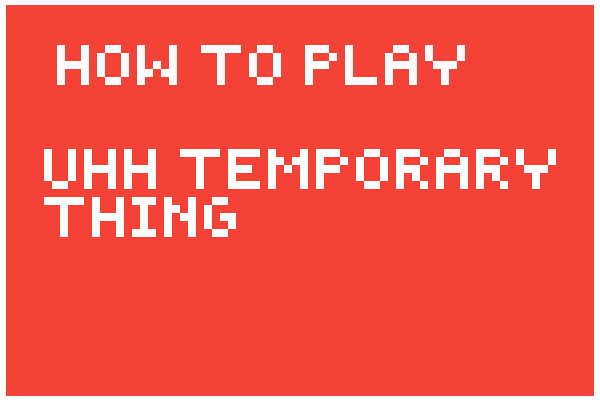
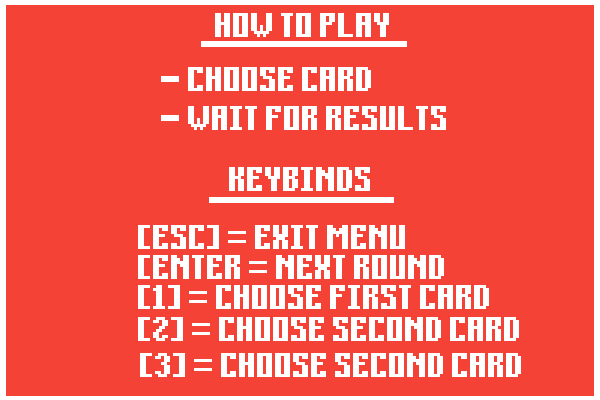
added more images to interactive scene

Changed region(s): [[0.06, 0.36, 0.93, 0.96], [0.09, 0.03, 0.78, 0.33]]

diff --git a/interactivescene/sketch.js b/interactivescene/sketch.js
@@ -12,6 +12,8 @@ let cardR, cardP, cardS, xCardR, yCardR, xCardP, yCardP, xCardS, yCardS, cardWid
 let playButtonWidth, howToPlayButtonWidth, playButtonHeight, howToPlayButtonHeight, xHowToPlayButton, yHowToPlayButton, xPlayButton, yPlayButton;
 let hoverHowToPlay, hoverPlay;
 let menuButton, rockCallout, paperCallout, scissorsCallout, youWin, youLose, playAgain, howToPlayMenu, exitMenu, xExitMenu, yExitMenu, exitMenuWidth, exitMenuHeight, startRound;
+let hoverExit, hoverKeybind, keybind, keybindMenu, loseCount, pressEnter, roundOne, roundTwo, roundThree, winCount, winLoseOne, winLoseTwo, winLoseThree, winLoseZero;
+
 
 let state = "start";
 
@@ -51,7 +53,22 @@ function preload() {
   playAgain = loadImage("assets/playAgainButton.png");
   youLose = loadImage("assets/youLose.png");
   youWin = loadImage("assets/youWin.png");
-  startRound = loadImage("assets/startRoundButton");
+  startRound = loadImage("assets/startRoundButton.png");
+
+  hoverExit = loadImage("assets/hoverExitButton.png");
+  hoverKeybind = loadImage("assets/hoverKeybindsButton.png");
+  keybind = loadImage("assets/keybindButton.png");
+  keybindMenu = loadImage("assets/keybindMenu.png");
+  loseCount = loadImage("assets/loseCount.png");
+  pressEnter = loadImage("assets/pressEnter.png");
+  roundOne = loadImage("assets/round1.png");
+  roundTwo = loadImage("assets/round2.png");
+  roundThree = loadImage("assets/round3.png");
+  winCount = loadImage("assets/winCount.png");
+  winLoseOne = loadImage("assets/winLoseOne.png");
+  winLoseTwo = loadImage("assets/winLoseTwo.png");
+  winLoseThree = loadImage("assets/winLoseThree.png");
+  winLoseZero = loadImage("assets/winLoseZero.png");
 }
 
 /////////////////// Setup //////////////////////////
@@ -112,9 +129,6 @@ function gameState() {
     pressPlay();
     pressHowToPlay();
   }
-  else if (state === "round1") {
-    display
-  }
   else if (state === "howToPlayMenu") {
     displayStartTitle();
     displayhowToMenu();  
@@ -132,6 +146,10 @@ function gameState() {
     
     displayTitle();
     hoverCards();
+
+    pressRockCard();
+    pressPaperCard();
+    pressScissorsCard();
   }
   else if (state === "choseRock") {
     displayCardR();
@@ -224,30 +242,22 @@ function hoverStartButtons() {
 }
 
 ////////////// Chose card functions ////////////////////
+
 function hoverCards() {
   if (mouseX > xCardR - cardWidthRock / 2 && mouseX < xCardR + cardWidthRock / 2 && mouseY > yCardR - cardHR / 2 && mouseY < yCardR + cardHR / 2) {
     rockHover = true;
-    if (mouseIsPressed){
-      state = "choseRock";
-    }
   }
   else {
     rockHover = false;
   }
   if (mouseX > xCardP - cardWP / 2 && mouseX < xCardP + cardWP / 2 && mouseY > yCardP - cardHP / 2 && mouseY < yCardP + cardHP / 2) {
     paperHover = true;
-    // if (mouseIsPressed){
-    //   state = "choseRock";
-    // }
   }
   else {
     paperHover = false;
   }
   if (mouseX > xCardS - cardWS / 2 && mouseX < xCardS + cardWS / 2 && mouseY > yCardS - cardHS / 2 && mouseY < yCardS + cardHS / 2) {
     scissorsHover = true;
-    if (mouseIsPressed) {
-      state = "choseScissors";
-    }
   } 
   else {
     scissorsHover = false;
@@ -269,5 +279,23 @@ function pressHowToPlay() {
 function pressExitHowToPlayMenu() {
   if (mouseX > xExitMenu - exitMenuWidth/2 && mouseX < xExitMenu + exitMenuWidth/2 && mouseY > yExitMenu - exitMenuHeight/2 && mouseY < yExitMenu + exitMenuHeight/2 && mouseIsPressed) {
     state = "start";
+  }
+}
+
+function pressRockCard() {
+  if (mouseX > xCardR - cardWidthRock / 2 && mouseX < xCardR + cardWidthRock / 2 && mouseY > yCardR - cardHR / 2 && mouseY < yCardR + cardHR / 2 && mouseIsPressed) {
+    state = "choseRock";
+  }
+}
+
+function pressPaperCard() {
+  if (mouseX > xCardP - cardWP / 2 && mouseX < xCardP + cardWP / 2 && mouseY > yCardP - cardHP / 2 && mouseY < yCardP + cardHP / 2 && mouseIsPressed) {
+    state = "chosePaper";
+  }
+}
+
+function pressScissorsCard() {
+  if (mouseX > xCardS - cardWS / 2 && mouseX < xCardS + cardWS / 2 && mouseY > yCardS - cardHS / 2 && mouseY < yCardS + cardHS / 2 && mouseIsPressed) {
+    state = "choseScissors";
   }
 }
